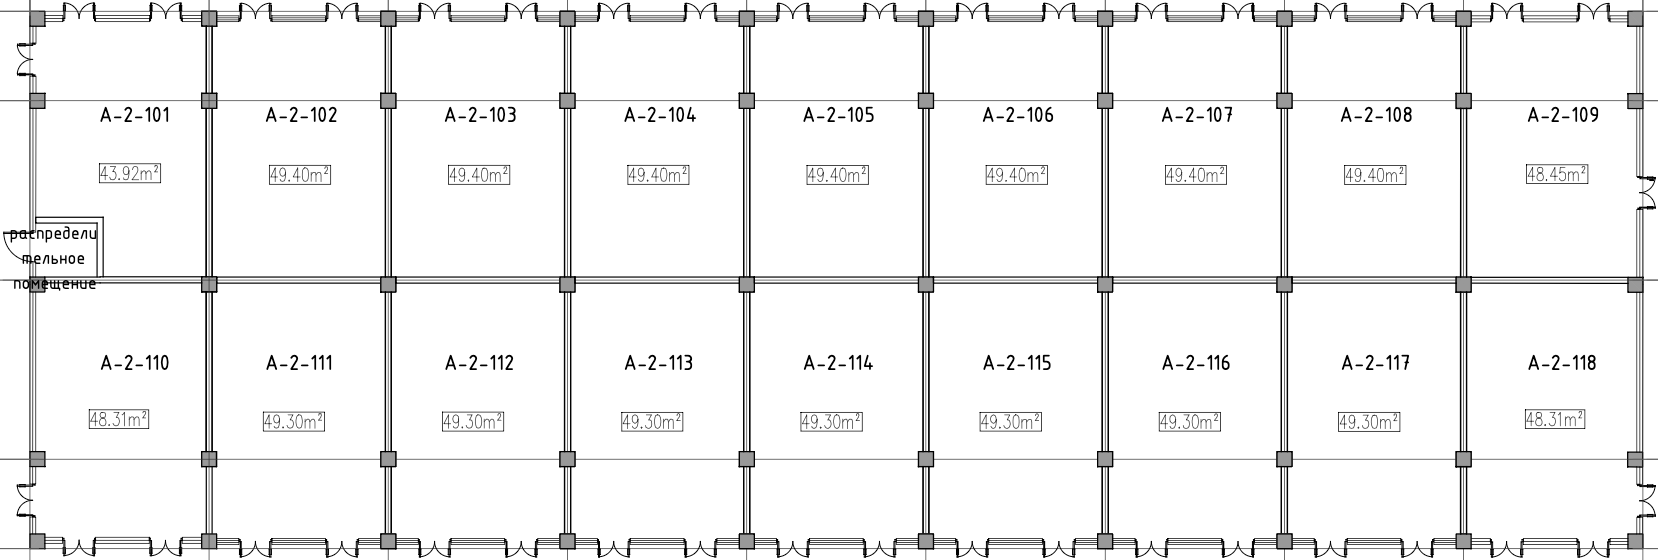
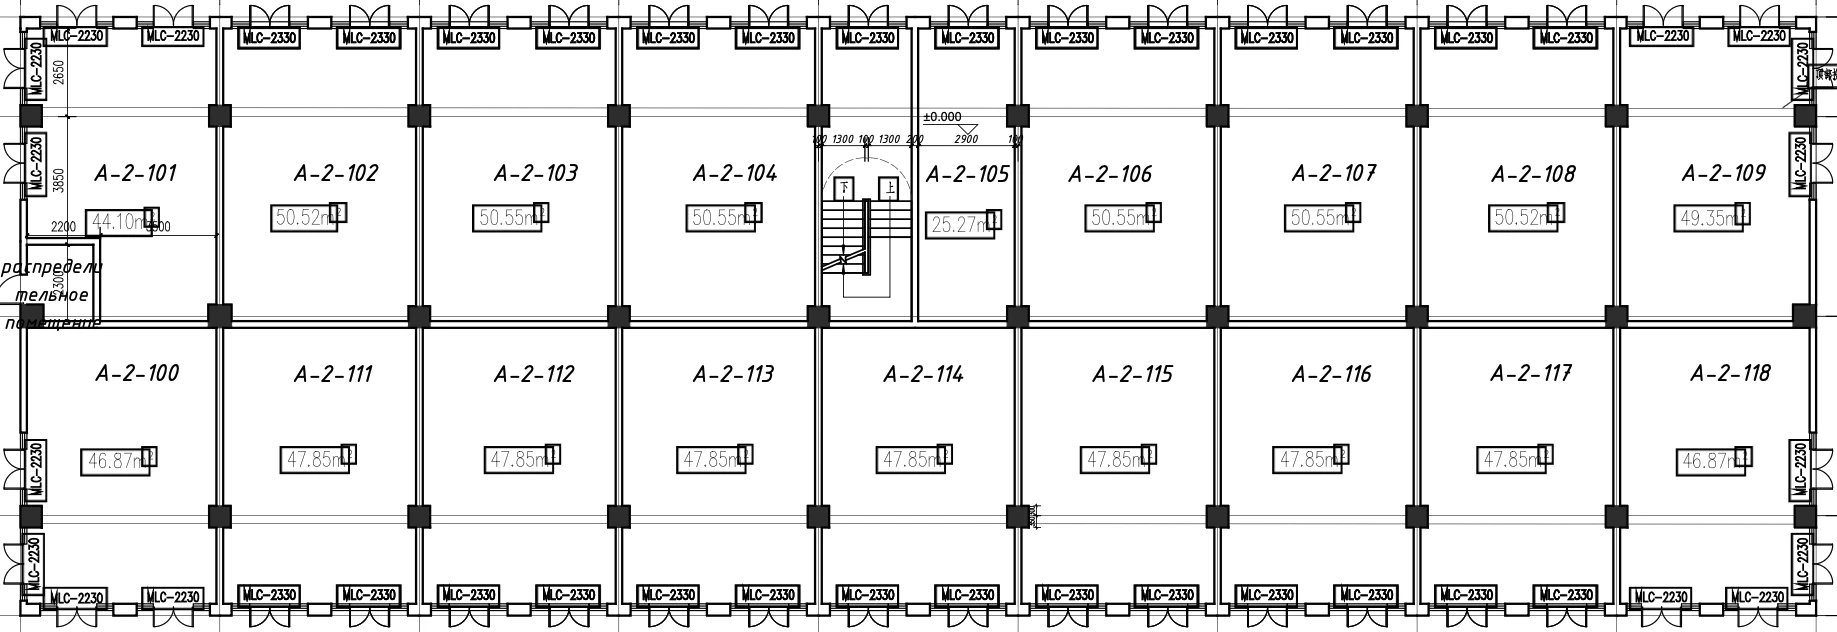
feat: update A block section 1-2 overlays, images and sizes
- Replace A-1 floor1, A-2 floor1/floor2 overlay data with new layouts
- Convert new PNG floor plans to WebP (A/1/1, A/1/2, A/2/2)
- Update apartment sizes for A-1 and A-2 from new CSV data
- Secure admin seed: read credentials from .env instead of hardcoded

Changed region(s): [[0.0, 0.0, 1.0, 1.0], [0.7075, 0.6375, 0.7382, 0.6679], [0.4922, 0.6375, 0.5229, 0.6679]]

diff --git a/src/pages/bolim/config/blocks.js b/src/pages/bolim/config/blocks.js
@@ -10,9 +10,9 @@ export default {
         { address: 'A-1-106', size: 49.4, status: 'EMPTY' },
         { address: 'A-1-107', size: 75.99, status: 'EMPTY' },
         { address: 'A-1-108', size: 39.18, status: 'EMPTY' },
-        { address: 'A-1-109', size: 49.44, status: 'EMPTY' },
-        { address: 'A-1-110', size: 39.18, status: 'EMPTY' },
-        { address: 'A-1-111', size: 85.36, status: 'EMPTY' },
+        { address: 'A-1-109', size: 90.48, status: 'EMPTY' },
+        { address: 'A-1-110', size: 29.56, status: 'EMPTY' },
+        { address: 'A-1-111', size: 53.97, status: 'EMPTY' },
         { address: 'A-1-112', size: 74.45, status: 'EMPTY' },
         { address: 'A-1-113', size: 49.4, status: 'EMPTY' },
         { address: 'A-1-114', size: 48.44, status: 'EMPTY' },
@@ -30,24 +30,24 @@ export default {
         { address: 'A-1-126', size: 48.31, status: 'EMPTY' },
       ],
       2: [
-        { address: 'A-2-101', size: 43.92, status: 'EMPTY' },
-        { address: 'A-2-102', size: 49.4, status: 'EMPTY' },
-        { address: 'A-2-103', size: 49.4, status: 'EMPTY' },
-        { address: 'A-2-104', size: 49.4, status: 'EMPTY' },
-        { address: 'A-2-105', size: 49.4, status: 'EMPTY' },
-        { address: 'A-2-106', size: 49.4, status: 'EMPTY' },
-        { address: 'A-2-107', size: 49.4, status: 'EMPTY' },
-        { address: 'A-2-108', size: 49.4, status: 'EMPTY' },
-        { address: 'A-2-109', size: 48.45, status: 'EMPTY' },
-        { address: 'A-2-110', size: 48.31, status: 'EMPTY' },
-        { address: 'A-2-111', size: 49.3, status: 'EMPTY' },
-        { address: 'A-2-112', size: 49.3, status: 'EMPTY' },
-        { address: 'A-2-113', size: 49.3, status: 'EMPTY' },
-        { address: 'A-2-114', size: 49.3, status: 'EMPTY' },
-        { address: 'A-2-115', size: 49.3, status: 'EMPTY' },
-        { address: 'A-2-116', size: 49.3, status: 'EMPTY' },
-        { address: 'A-2-117', size: 49.3, status: 'EMPTY' },
-        { address: 'A-2-118', size: 48.31, status: 'EMPTY' },
+        { address: 'A-2-101', size: 44.1, status: 'EMPTY' },
+        { address: 'A-2-102', size: 50.52, status: 'EMPTY' },
+        { address: 'A-2-103', size: 50.55, status: 'EMPTY' },
+        { address: 'A-2-104', size: 50.55, status: 'EMPTY' },
+        { address: 'A-2-105', size: 25.27, status: 'EMPTY' },
+        { address: 'A-2-106', size: 50.55, status: 'EMPTY' },
+        { address: 'A-2-107', size: 50.55, status: 'EMPTY' },
+        { address: 'A-2-108', size: 50.55, status: 'EMPTY' },
+        { address: 'A-2-109', size: 49.35, status: 'EMPTY' },
+        { address: 'A-2-110', size: 46.87, status: 'EMPTY' },
+        { address: 'A-2-111', size: 47.85, status: 'EMPTY' },
+        { address: 'A-2-112', size: 47.85, status: 'EMPTY' },
+        { address: 'A-2-113', size: 47.85, status: 'EMPTY' },
+        { address: 'A-2-114', size: 47.85, status: 'EMPTY' },
+        { address: 'A-2-115', size: 47.85, status: 'EMPTY' },
+        { address: 'A-2-116', size: 47.85, status: 'EMPTY' },
+        { address: 'A-2-117', size: 47.85, status: 'EMPTY' },
+        { address: 'A-2-118', size: 46.87, status: 'EMPTY' },
       ],
       3: [
         { address: 'A-3-101', size: 44.27, status: 'EMPTY' },
@@ -266,24 +266,24 @@ export default {
         { address: 'A-1-216', size: 23.34, status: 'EMPTY' },
       ],
       2: [
-        { address: 'A-2-201', size: 28.5, status: 'EMPTY' },
-        { address: 'A-2-202', size: 33.59, status: 'EMPTY' },
-        { address: 'A-2-203', size: 33.59, status: 'EMPTY' },
-        { address: 'A-2-204', size: 33.59, status: 'EMPTY' },
-        { address: 'A-2-205', size: 33.59, status: 'EMPTY' },
-        { address: 'A-2-206', size: 33.59, status: 'EMPTY' },
-        { address: 'A-2-207', size: 33.59, status: 'EMPTY' },
-        { address: 'A-2-208', size: 33.59, status: 'EMPTY' },
-        { address: 'A-2-209', size: 33, status: 'EMPTY' },
-        { address: 'A-2-210', size: 32.85, status: 'EMPTY' },
-        { address: 'A-2-211', size: 33.51, status: 'EMPTY' },
-        { address: 'A-2-212', size: 33.51, status: 'EMPTY' },
-        { address: 'A-2-213', size: 33.51, status: 'EMPTY' },
-        { address: 'A-2-214', size: 33.51, status: 'EMPTY' },
-        { address: 'A-2-215', size: 33.51, status: 'EMPTY' },
-        { address: 'A-2-216', size: 33.51, status: 'EMPTY' },
-        { address: 'A-2-217', size: 33.51, status: 'EMPTY' },
-        { address: 'A-2-218', size: 32.85, status: 'EMPTY' },
+        { address: 'A-2-201', size: 28.87, status: 'EMPTY' },
+        { address: 'A-2-202', size: 34.95, status: 'EMPTY' },
+        { address: 'A-2-203', size: 34.95, status: 'EMPTY' },
+        { address: 'A-2-204', size: 34.95, status: 'EMPTY' },
+        { address: 'A-2-205', size: 17.48, status: 'EMPTY' },
+        { address: 'A-2-206', size: 34.95, status: 'EMPTY' },
+        { address: 'A-2-207', size: 34.95, status: 'EMPTY' },
+        { address: 'A-2-208', size: 34.95, status: 'EMPTY' },
+        { address: 'A-2-209', size: 34.28, status: 'EMPTY' },
+        { address: 'A-2-210', size: 31.57, status: 'EMPTY' },
+        { address: 'A-2-211', size: 32.14, status: 'EMPTY' },
+        { address: 'A-2-212', size: 32.14, status: 'EMPTY' },
+        { address: 'A-2-213', size: 32.14, status: 'EMPTY' },
+        { address: 'A-2-214', size: 32.14, status: 'EMPTY' },
+        { address: 'A-2-215', size: 32.14, status: 'EMPTY' },
+        { address: 'A-2-216', size: 32.14, status: 'EMPTY' },
+        { address: 'A-2-217', size: 32.14, status: 'EMPTY' },
+        { address: 'A-2-218', size: 31.57, status: 'EMPTY' },
       ],
       3: [
         { address: 'A-3-201', size: 28.63, status: 'EMPTY' },

diff --git a/src/pages/bolim/config/aRectOverlays.js b/src/pages/bolim/config/aRectOverlays.js
@@ -1,53 +1,53 @@
 export const A_RECT_OVERLAYS = {
   1: {
-    viewBox: "0 0 1778 1378",
+    viewBox: "0 0 1279 996",
     rects: [
-    { id: "A-1-101", x: 1594, y: 18, width: 167, height: 252 },
-    { id: "A-1-102", x: 1424, y: 18, width: 170, height: 252 },
-    { id: "A-1-103", x: 1254, y: 18, width: 170, height: 252 },
-    { id: "A-1-104", x: 1084, y: 18, width: 170, height: 252 },
-    { id: "A-1-105", x: 914, y: 18, width: 170, height: 252 },
-    { id: "A-1-106", x: 743, y: 18, width: 170, height: 252 },
-    { id: "A-1-107", d: "M 482,18 L 740,15 L 740,267 L 586,267 L 410,90 Z" },
-    { id: "A-1-108", d: "M 315,188 L 410,90 L 586,267 L 491,362 Z" },
-    { id: "A-1-109", d: "M 197,303 L 315,188 L 491,362 L 370,483 Z" },
-    { id: "A-1-110", d: "M 99,401 L 197,303 L 370,483 L 276,578 Z" },
-    { id: "A-1-111", d: "M 276,574 L 276,768 L 27,768 L 24,473 L 99,398 Z" },
-    { id: "A-1-112", x: 27, y: 768, width: 249, height: 255 },
-    { id: "A-1-124", x: 276, y: 768, width: 252, height: 255 },
-    { id: "A-1-113", x: 27, y: 1023, width: 249, height: 170 },
-    { id: "A-1-125", x: 276, y: 1023, width: 252, height: 170 },
-    { id: "A-1-114", x: 27, y: 1193, width: 249, height: 167 },
-    { id: "A-1-126", x: 276, y: 1193, width: 252, height: 167 },
-    { id: "A-1-120", x: 743, y: 267, width: 170, height: 252 },
-    { id: "A-1-119", x: 914, y: 270, width: 170, height: 249 },
-    { id: "A-1-118", x: 1084, y: 270, width: 170, height: 249 },
-    { id: "A-1-117", x: 1254, y: 270, width: 170, height: 249 },
-    { id: "A-1-116", x: 1423, y: 269, width: 170, height: 248 },
-    { id: "A-1-115", x: 1593, y: 269, width: 167, height: 252 },
+    { id: "A-1-101", d: "M 1145,15 L 1266,13 L 1271,141 L 1228,141 L 1230,194 L 1143,194 Z" },
+    { id: "A-1-102", x: 1024, y: 15, width: 119, height: 182 },
+    { id: "A-1-103", x: 903, y: 13, width: 116, height: 182 },
+    { id: "A-1-104", x: 780, y: 15, width: 119, height: 179 },
+    { id: "A-1-105", x: 654, y: 15, width: 126, height: 179 },
+    { id: "A-1-106", x: 535, y: 15, width: 119, height: 179 },
+    { id: "A-1-107", d: "M 291,61 L 344,11 L 533,13 L 533,199 L 417,194 Z" },
+    { id: "A-1-108", d: "M 221,134 L 291,64 L 417,194 L 354,260 Z" },
+    { id: "A-1-109", d: "M 66,284 L 216,136 L 351,265 L 194,422 Z" },
+    { id: "A-1-110", d: "M 66,286 L 10,345 L 10,415 L 199,417 Z" },
+    { id: "A-1-111", x: 15, y: 420, width: 179, height: 133 },
+    { id: "A-1-112", x: 13, y: 555, width: 182, height: 184 },
+    { id: "A-1-124", x: 192, y: 553, width: 184, height: 184 },
+    { id: "A-1-113", x: 10, y: 739, width: 184, height: 121 },
+    { id: "A-1-125", x: 199, y: 737, width: 177, height: 123 },
+    { id: "A-1-114", x: 8, y: 863, width: 186, height: 123 },
+    { id: "A-1-126", x: 201, y: 863, width: 174, height: 121 },
+    { id: "A-1-115", x: 1148, y: 199, width: 119, height: 177 },
+    { id: "A-1-116", x: 1024, y: 197, width: 121, height: 179 },
+    { id: "A-1-117", x: 903, y: 197, width: 119, height: 179 },
+    { id: "A-1-118", x: 782, y: 194, width: 121, height: 179 },
+    { id: "A-1-119", x: 654, y: 197, width: 128, height: 177 },
+    { id: "A-1-120", x: 543, y: 194, width: 114, height: 179 },
     ],
   },
   2: {
-    viewBox: "0 0 1658 560",
+    viewBox: "0 0 1837 632",
     rects: [
-    { id: "A-2-101", x: 32, y: 12, width: 180, height: 271 },
-    { id: "A-2-102", x: 212, y: 12, width: 173, height: 271 },
-    { id: "A-2-103", x: 391, y: 12, width: 173, height: 271 },
-    { id: "A-2-104", x: 570, y: 12, width: 173, height: 271 },
-    { id: "A-2-105", x: 749, y: 12, width: 173, height: 271 },
-    { id: "A-2-106", x: 928, y: 12, width: 174, height: 271 },
-    { id: "A-2-107", x: 1108, y: 12, width: 173, height: 271 },
-    { id: "A-2-108", x: 1287, y: 12, width: 173, height: 271 },
-    { id: "A-2-109", x: 1466, y: 12, width: 177, height: 271 },
-    { id: "A-2-110", x: 32, y: 283, width: 173, height: 260 },
-    { id: "A-2-111", x: 212, y: 283, width: 173, height: 260 },
-    { id: "A-2-112", x: 391, y: 283, width: 173, height: 260 },
-    { id: "A-2-113", x: 570, y: 283, width: 173, height: 260 },
-    { id: "A-2-114", x: 749, y: 283, width: 173, height: 260 },
-    { id: "A-2-115", x: 928, y: 283, width: 174, height: 260 },
-    { id: "A-2-116", x: 1108, y: 283, width: 173, height: 260 },
-    { id: "A-2-117", x: 1287, y: 283, width: 173, height: 260 },
-    { id: "A-2-118", x: 1466, y: 283, width: 177, height: 260 },
+    { id: "A-2-101", d: "M 25,30 L 216,26 L 213,325 L 98,322 L 95,235 L 22,238 Z" },
+    { id: "A-2-102", x: 220, y: 23, width: 188, height: 302 },
+    { id: "A-2-103", x: 418, y: 23, width: 202, height: 302 },
+    { id: "A-2-104", x: 623, y: 19, width: 195, height: 306 },
+    { id: "A-2-105", x: 915, y: 23, width: 104, height: 302 },
+    { id: "A-2-106", x: 1026, y: 19, width: 191, height: 306 },
+    { id: "A-2-107", x: 1221, y: 19, width: 198, height: 306 },
+    { id: "A-2-108", x: 1423, y: 16, width: 195, height: 309 },
+    { id: "A-2-109", x: 1621, y: 19, width: 195, height: 306 },
+    { id: "A-2-110", x: 22, y: 322, width: 202, height: 285 },
+    { id: "A-2-111", x: 223, y: 325, width: 195, height: 285 },
+    { id: "A-2-112", x: 418, y: 325, width: 202, height: 285 },
+    { id: "A-2-113", x: 623, y: 325, width: 195, height: 285 },
+    { id: "A-2-114", x: 825, y: 329, width: 191, height: 278 },
+    { id: "A-2-115", x: 1019, y: 329, width: 198, height: 278 },
+    { id: "A-2-116", x: 1221, y: 325, width: 198, height: 282 },
+    { id: "A-2-117", x: 1423, y: 325, width: 195, height: 278 },
+    { id: "A-2-118", x: 1617, y: 329, width: 195, height: 275 },
     ],
   },
   3: {

diff --git a/src/pages/bolim/config/aFloor2RectOverlays.js b/src/pages/bolim/config/aFloor2RectOverlays.js
@@ -19,26 +19,26 @@ export const A_FLOOR2_RECT_OVERLAYS = {
     ],
   },
   2: {
-    viewBox: "0 0 1616 377",
+    viewBox: "0 0 1817 444",
     rects: [
-    { id: "A-2-201", x: 31,   y: 8, width: 175, height: 182 },
-    { id: "A-2-202", x: 207,  y: 8, width: 169, height: 182 },
-    { id: "A-2-203", x: 381,  y: 8, width: 169, height: 182 },
-    { id: "A-2-204", x: 556,  y: 8, width: 169, height: 182 },
-    { id: "A-2-205", x: 730,  y: 8, width: 169, height: 182 },
-    { id: "A-2-206", x: 904,  y: 8, width: 170, height: 182 },
-    { id: "A-2-207", x: 1080, y: 8, width: 169, height: 182 },
-    { id: "A-2-208", x: 1254, y: 8, width: 169, height: 182 },
-    { id: "A-2-209", x: 1429, y: 8, width: 173, height: 182 },
-    { id: "A-2-210", x: 31,   y: 191, width: 169, height: 175 },
-    { id: "A-2-211", x: 207,  y: 191, width: 169, height: 175 },
-    { id: "A-2-212", x: 381,  y: 191, width: 169, height: 175 },
-    { id: "A-2-213", x: 556,  y: 191, width: 169, height: 175 },
-    { id: "A-2-214", x: 730,  y: 191, width: 169, height: 175 },
-    { id: "A-2-215", x: 904,  y: 191, width: 170, height: 175 },
-    { id: "A-2-216", x: 1080, y: 191, width: 169, height: 175 },
-    { id: "A-2-217", x: 1254, y: 191, width: 169, height: 175 },
-    { id: "A-2-218", x: 1429, y: 191, width: 173, height: 175 },
+    { id: "A-2-201", d: "M 35,25 L 221,28 L 221,228 L 104,228 L 104,145 L 32,145 Z" },
+    { id: "A-2-202", x: 228, y: 25,  width: 189, height: 203 },
+    { id: "A-2-203", x: 420, y: 25,  width: 196, height: 203 },
+    { id: "A-2-204", x: 620, y: 25,  width: 196, height: 203 },
+    { id: "A-2-205", x: 905, y: 25,  width: 103, height: 206 },
+    { id: "A-2-206", x: 1012, y: 28, width: 196, height: 199 },
+    { id: "A-2-207", x: 1208, y: 25, width: 196, height: 203 },
+    { id: "A-2-208", x: 1407, y: 28, width: 193, height: 199 },
+    { id: "A-2-209", x: 1600, y: 31, width: 199, height: 196 },
+    { id: "A-2-210", x: 32,   y: 231, width: 193, height: 186 },
+    { id: "A-2-211", x: 228,  y: 234, width: 196, height: 179 },
+    { id: "A-2-212", x: 424,  y: 234, width: 189, height: 179 },
+    { id: "A-2-213", x: 613,  y: 234, width: 203, height: 186 },
+    { id: "A-2-214", x: 823,  y: 234, width: 189, height: 186 },
+    { id: "A-2-215", x: 1015, y: 234, width: 193, height: 186 },
+    { id: "A-2-216", x: 1215, y: 231, width: 189, height: 193 },
+    { id: "A-2-217", x: 1411, y: 234, width: 189, height: 186 },
+    { id: "A-2-218", x: 1600, y: 234, width: 196, height: 186 },
     ],
   },
   3: {

diff --git a/backend/seed.js b/backend/seed.js
@@ -32,6 +32,9 @@ console.log(`Seeded ${total} apartments.`)
 
 // Default admin user
 try {
-  q.insertUser.run({ username: 'hengtai', password: hashPassword('hengtai6666'), role: 'admin', name: 'Admin', telegram_id: null })
-  console.log('Admin user created: hengtai / hengtai6666')
+  const adminUsername = process.env.ADMIN_USERNAME || 'admin'
+  const adminPassword = process.env.ADMIN_DEFAULT_PASSWORD
+  if (!adminPassword) throw new Error('ADMIN_DEFAULT_PASSWORD not set in .env')
+  q.insertUser.run({ username: adminUsername, password: hashPassword(adminPassword), role: 'admin', name: 'Admin', telegram_id: null })
+  console.log(`Admin user created: ${adminUsername}`)
 } catch { console.log('Admin user already exists.') }
